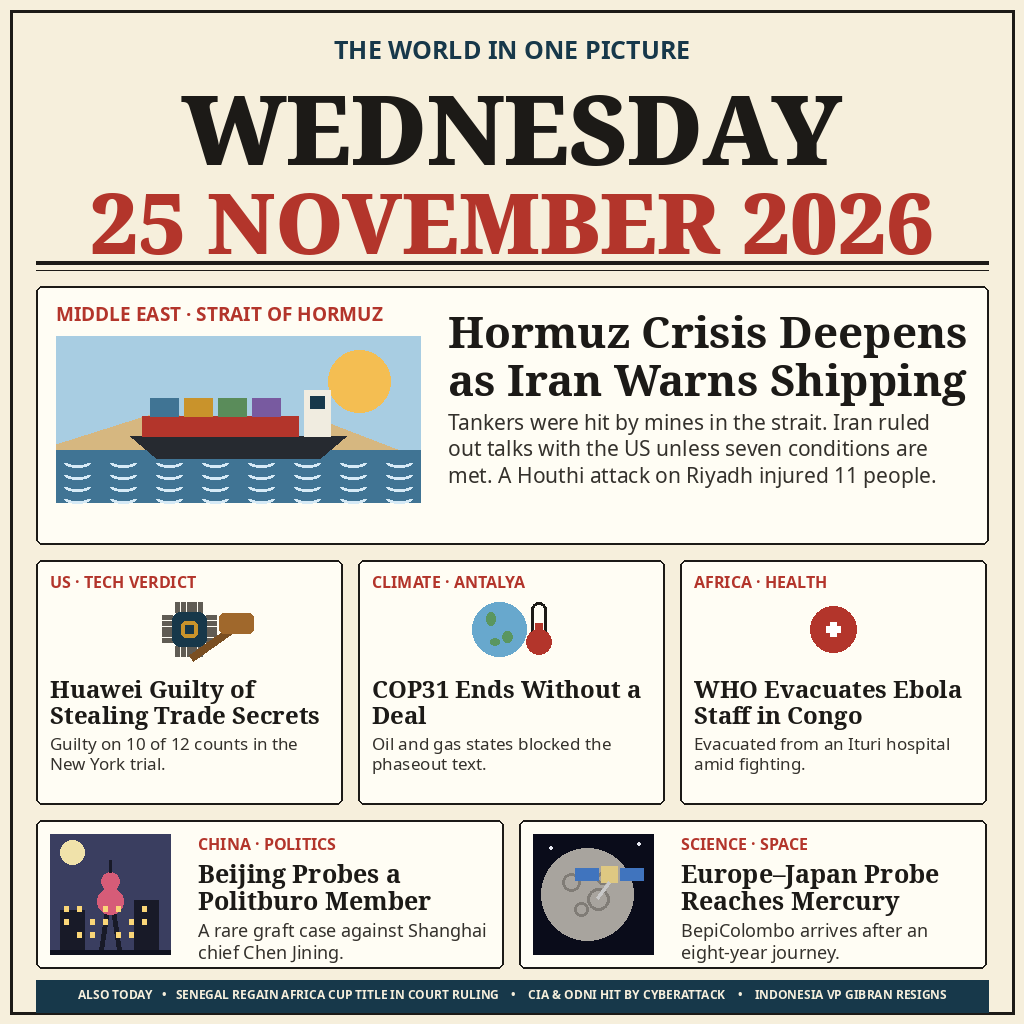
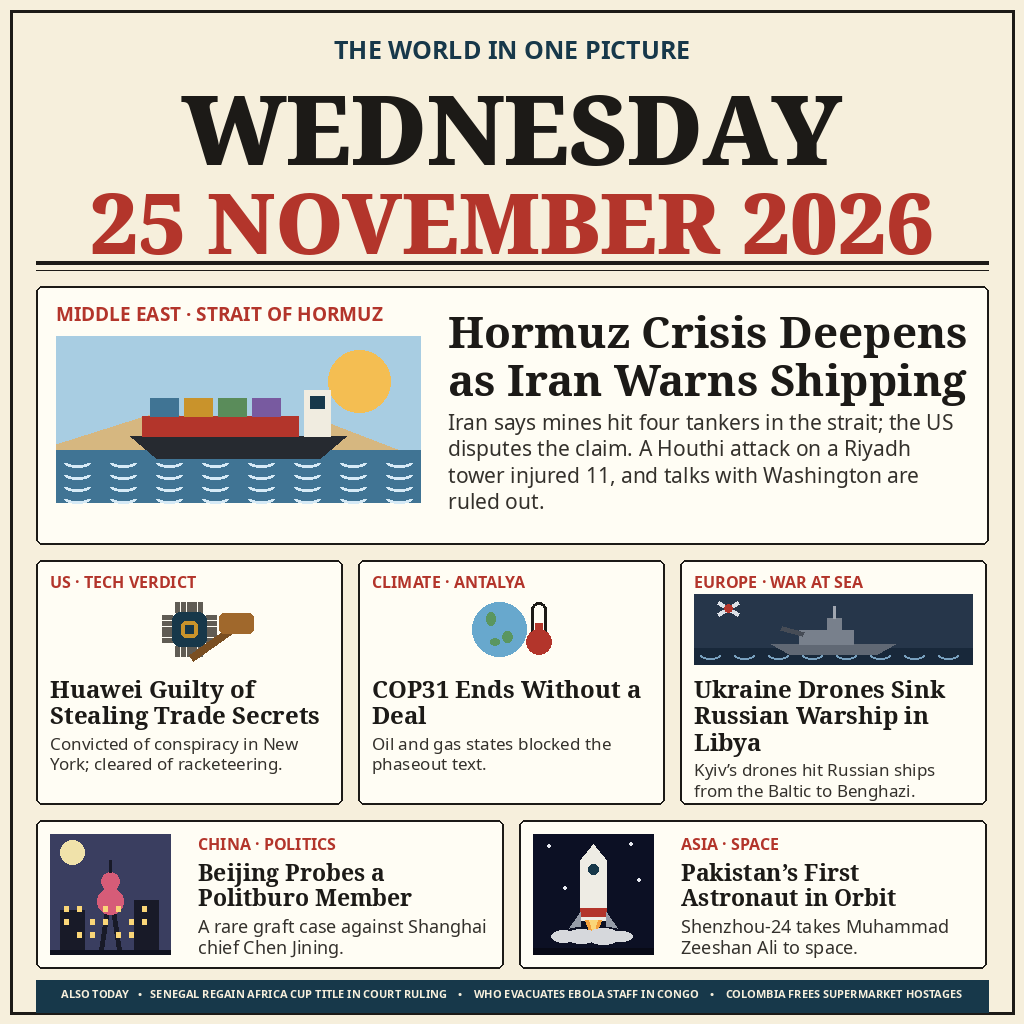
Final edition: the completed day — Ukraine strikes, Shenzhou-24, updated Hormuz and Huawei

diff --git a/render_image.py b/render_image.py
@@ -115,15 +115,24 @@ def draw_globe_thermometer(draw, box):
     draw.ellipse([tx - 5, cy + r - 27, tx + 20, cy + r - 2], fill=RED)
 
 
-def draw_medical(draw, box):
-    """A white cross in a red roundel, with a map pin for the place."""
+def draw_warship(draw, box):
+    """A grey warship on a dark sea, and the drone that found it."""
     x0, y0, x1, y1 = box
-    cx, cy = (x0 + x1) // 2, (y0 + y1) // 2
-    r = min(x1 - x0, y1 - y0) // 2 - 12
-    draw.ellipse([cx - r, cy - r, cx + r, cy + r], fill=RED)
-    w = r // 3
-    draw.rectangle([cx - w // 2, cy - r + 16, cx + w // 2, cy + r - 16], fill=(255, 255, 255))
-    draw.rectangle([cx - r + 16, cy - w // 2, cx + r - 16, cy + w // 2], fill=(255, 255, 255))
+    draw.rectangle(box, fill=(38, 54, 74))
+    sea_y = y1 - 16
+    draw.rectangle([x0, sea_y, x1, y1], fill=(24, 40, 58))
+    hx, hy = (x0 + x1) // 2, sea_y - 4
+    draw.polygon([(hx - 62, hy), (hx + 62, hy), (hx + 44, hy + 10), (hx - 44, hy + 10)], fill=(96, 104, 116))
+    draw.rectangle([hx - 34, hy - 14, hx + 20, hy], fill=(120, 128, 140))
+    draw.rectangle([hx - 6, hy - 26, hx + 8, hy - 14], fill=(120, 128, 140))
+    draw.line([hx + 1, hy - 26, hx + 1, hy - 38], fill=(160, 166, 176), width=3)
+    draw.line([hx - 30, hy - 10, hx - 52, hy - 16], fill=(70, 76, 86), width=5)
+    dx, dy = x0 + 34, y0 + 14
+    draw.line([dx - 10, dy - 6, dx + 10, dy + 6], fill=(220, 224, 230), width=4)
+    draw.line([dx - 10, dy + 6, dx + 10, dy - 6], fill=(220, 224, 230), width=4)
+    draw.ellipse([dx - 4, dy - 4, dx + 4, dy + 4], fill=RED)
+    for wx in range(x0 + 6, x1 - 20, 34):
+        draw.arc([wx, sea_y + 3, wx + 20, sea_y + 11], 0, 180, fill=(120, 160, 190), width=2)
 
 
 def draw_shanghai(draw, box):
@@ -151,23 +160,25 @@ def draw_shanghai(draw, box):
     draw.rectangle([x0, base, x1, y1], fill=(16, 18, 30))
 
 
-def draw_mercury(draw, box):
-    """A grey cratered planet and the little probe that reached it."""
+def draw_rocket(draw, box):
+    """A rocket lifting off into a starry sky, on a plume of fire."""
     x0, y0, x1, y1 = box
-    draw.rectangle(box, fill=(10, 12, 26))
-    for sx, sy in [(16, 12), (64, 30), (104, 8), (36, 62), (150, 52), (88, 74)]:
-        if x0 + sx < x1 - 6 and y0 + sy < y1 - 6:
+    draw.rectangle(box, fill=(12, 16, 36))
+    for sx, sy in [(14, 10), (52, 26), (96, 8), (30, 52), (104, 44), (66, 66)]:
+        if x0 + sx < x1 - 4 and y0 + sy < y1 - 40:
             draw.ellipse([x0 + sx, y0 + sy, x0 + sx + 3, y0 + sy + 3], fill=(230, 232, 240))
-    r = min(46, (y1 - y0) // 2 - 4)
-    cx, cy = x0 + r + 8, (y0 + y1) // 2
-    draw.ellipse([cx - r, cy - r, cx + r, cy + r], fill=(168, 164, 158))
-    for dx, dy, dr in [(-r // 3, -r // 4, r // 5), (r // 4, r // 8, r // 4), (-r // 8, r // 3, r // 6), (r // 3, -r // 3, r // 7)]:
-        draw.ellipse([cx + dx - dr, cy + dy - dr, cx + dx + dr, cy + dy + dr], outline=(128, 124, 118), width=3)
-    px, py = x1 - 44, y0 + (y1 - y0) // 3
-    draw.rectangle([px - 8, py - 8, px + 8, py + 8], fill=(222, 200, 130))
-    draw.rectangle([px - 34, py - 6, px - 11, py + 6], fill=(64, 116, 190))
-    draw.rectangle([px + 11, py - 6, px + 34, py + 6], fill=(64, 116, 190))
-    draw.line([px, py + 8, px - 12, py + 24], fill=(200, 200, 200), width=3)
+    cx = (x0 + x1) // 2
+    top, base = y0 + 10, y1 - 34
+    draw.polygon([(cx - 13, base), (cx - 13, top + 16), (cx, top), (cx + 13, top + 16), (cx + 13, base)], fill=(238, 236, 228))
+    draw.rectangle([cx - 13, base - 12, cx + 13, base - 4], fill=RED)
+    draw.ellipse([cx - 5, top + 20, cx + 5, top + 30], fill=NAVY)
+    draw.polygon([(cx - 13, base - 8), (cx - 24, base + 8), (cx - 13, base + 6)], fill=(150, 156, 168))
+    draw.polygon([(cx + 13, base - 8), (cx + 24, base + 8), (cx + 13, base + 6)], fill=(150, 156, 168))
+    draw.polygon([(cx - 8, base), (cx, base + 22), (cx + 8, base)], fill=(244, 160, 60))
+    draw.polygon([(cx - 4, base), (cx, base + 13), (cx + 4, base)], fill=(250, 214, 120))
+    for dx, r in [(-30, 12), (-12, 15), (10, 16), (28, 11)]:
+        draw.ellipse([cx + dx - r, y1 - 18 - r // 2, cx + dx + r, y1 - 18 + r // 2], fill=(214, 216, 220))
+    draw.rectangle([x0, y1 - 6, x1, y1], fill=(8, 10, 22))
 
 
 # --- the page -----------------------------------------------------------------
@@ -180,16 +191,16 @@ STORIES = {
     'lead': {
         'kicker': 'MIDDLE EAST · STRAIT OF HORMUZ',
         'headline': 'Hormuz Crisis Deepens as Iran Warns Shipping',
-        'body': 'Tankers were hit by mines in the strait. Iran ruled out talks with '
-                'the US unless seven conditions are met. A Houthi attack on '
-                'Riyadh injured 11 people.',
+        'body': 'Iran says mines hit four tankers in the strait; the US disputes '
+                'the claim. A Houthi attack on a Riyadh tower injured 11, '
+                'and talks with Washington are ruled out.',
         'art': draw_tanker,
     },
     'panels': [
         {
             'kicker': 'US · TECH VERDICT',
             'headline': 'Huawei Guilty of Stealing Trade Secrets',
-            'body': 'Guilty on 10 of 12 counts in the New York trial.',
+            'body': 'Convicted of conspiracy in New York; cleared of racketeering.',
             'art': draw_chip,
         },
         {
@@ -199,10 +210,10 @@ STORIES = {
             'art': draw_globe_thermometer,
         },
         {
-            'kicker': 'AFRICA · HEALTH',
-            'headline': 'WHO Evacuates Ebola Staff in Congo',
-            'body': 'Evacuated from an Ituri hospital amid fighting.',
-            'art': draw_medical,
+            'kicker': 'EUROPE · WAR AT SEA',
+            'headline': 'Ukraine Drones Sink Russian Warship in Libya',
+            'body': 'Kyiv’s drones hit Russian ships from the Baltic to Benghazi.',
+            'art': draw_warship,
         },
     ],
     'wide': [
@@ -213,16 +224,16 @@ STORIES = {
             'art': draw_shanghai,
         },
         {
-            'kicker': 'SCIENCE · SPACE',
-            'headline': 'Europe–Japan Probe Reaches Mercury',
-            'body': 'BepiColombo arrives after an eight-year journey.',
-            'art': draw_mercury,
+            'kicker': 'ASIA · SPACE',
+            'headline': 'Pakistan’s First Astronaut in Orbit',
+            'body': 'Shenzhou-24 takes Muhammad Zeeshan Ali to space.',
+            'art': draw_rocket,
         },
     ],
     'ticker': [
         'SENEGAL REGAIN AFRICA CUP TITLE IN COURT RULING',
-        'CIA & ODNI HIT BY CYBERATTACK',
-        'INDONESIA VP GIBRAN RESIGNS',
+        'WHO EVACUATES EBOLA STAFF IN CONGO',
+        'COLOMBIA FREES SUPERMARKET HOSTAGES',
     ],
 }
 
@@ -244,7 +255,7 @@ def wide_panel(draw, box, story):
     story['art'](draw, (x0 + 14, y0 + 14, x0 + 134, y1 - 14))
     tx = x0 + 162
     draw.text((tx, y0 + 12), story['kicker'], font=font(SANS_BOLD, 16), fill=RED)
-    y = text_block(draw, (tx, y0 + 36), story['headline'], font(SERIF_BOLD, 25), INK, x1 - tx - 14, 1.1)
+    y = text_block(draw, (tx, y0 + 36), story['headline'], font(SERIF_BOLD, 23), INK, x1 - tx - 14, 1.1)
     text_block(draw, (tx, y + 6), story['body'], font(SANS, 18), (52, 49, 44), x1 - tx - 14, 1.2)
 
 
@@ -282,7 +293,7 @@ def main():
     draw.rectangle([36, 980, W - 36, 1012], fill=NAVY)
     ticker = 'ALSO TODAY   •   ' + '    •    '.join(STORIES['ticker'])
     size = 19
-    while draw.textlength(ticker, font=font(SANS_BOLD, size)) > W - 110 and size > 12:
+    while draw.textlength(ticker, font=font(SANS_BOLD, size)) > W - 76 and size > 10:
         size -= 1
     draw.text((512, 986), ticker, font=font(SANS_BOLD, size), fill=(246, 239, 220), anchor='ma')
 

diff --git a/README.md b/README.md
@@ -4,7 +4,7 @@
 [![rank](https://make.fun/badge/news-image-20261125/mideeeee12-oss/news-image-20261125/rank.svg)](https://make.fun/bounty/news-image-20261125/leaderboard?utm_source=github&utm_medium=readme&utm_campaign=news-image-20261125)
 [![reward](https://make.fun/badge/news-image-20261125/mideeeee12-oss/news-image-20261125/reward.svg)](https://make.fun/bounty/news-image-20261125?utm_source=github&utm_medium=readme&utm_campaign=news-image-20261125)
 
-**The World in One Picture — Wednesday 25 November 2026.** One image that sums up the day's world news: the Hormuz crisis as the lead, a US jury's Huawei verdict, the COP31 climate talks ending without a deal, WHO's Ebola evacuation in Congo, Beijing's probe of a Politburo member, and the BepiColombo probe reaching Mercury, with three more stories in the ticker. The picture was drawn from the day's reporting (Gulf News, The Hindu, the Manila Times, AP and others) by `render_image.py`; `main.py` hands `entry.png` in.
+**The World in One Picture — Wednesday 25 November 2026.** One image that sums up the day's world news: the Hormuz crisis as the lead, a US jury's Huawei verdict, Ukraine's drone strikes on Russian warships, the COP31 climate talks ending without a deal, Beijing's probe of a Politburo member, and China launching Pakistan's first astronaut on Shenzhou-24, with three more stories in the ticker. The picture was drawn from the day's reporting (Reuters wires, Gulf News, The Hindu, the Manila Times, AP and others) by `render_image.py`; `main.py` hands `entry.png` in.
 
 ## Run it
 
